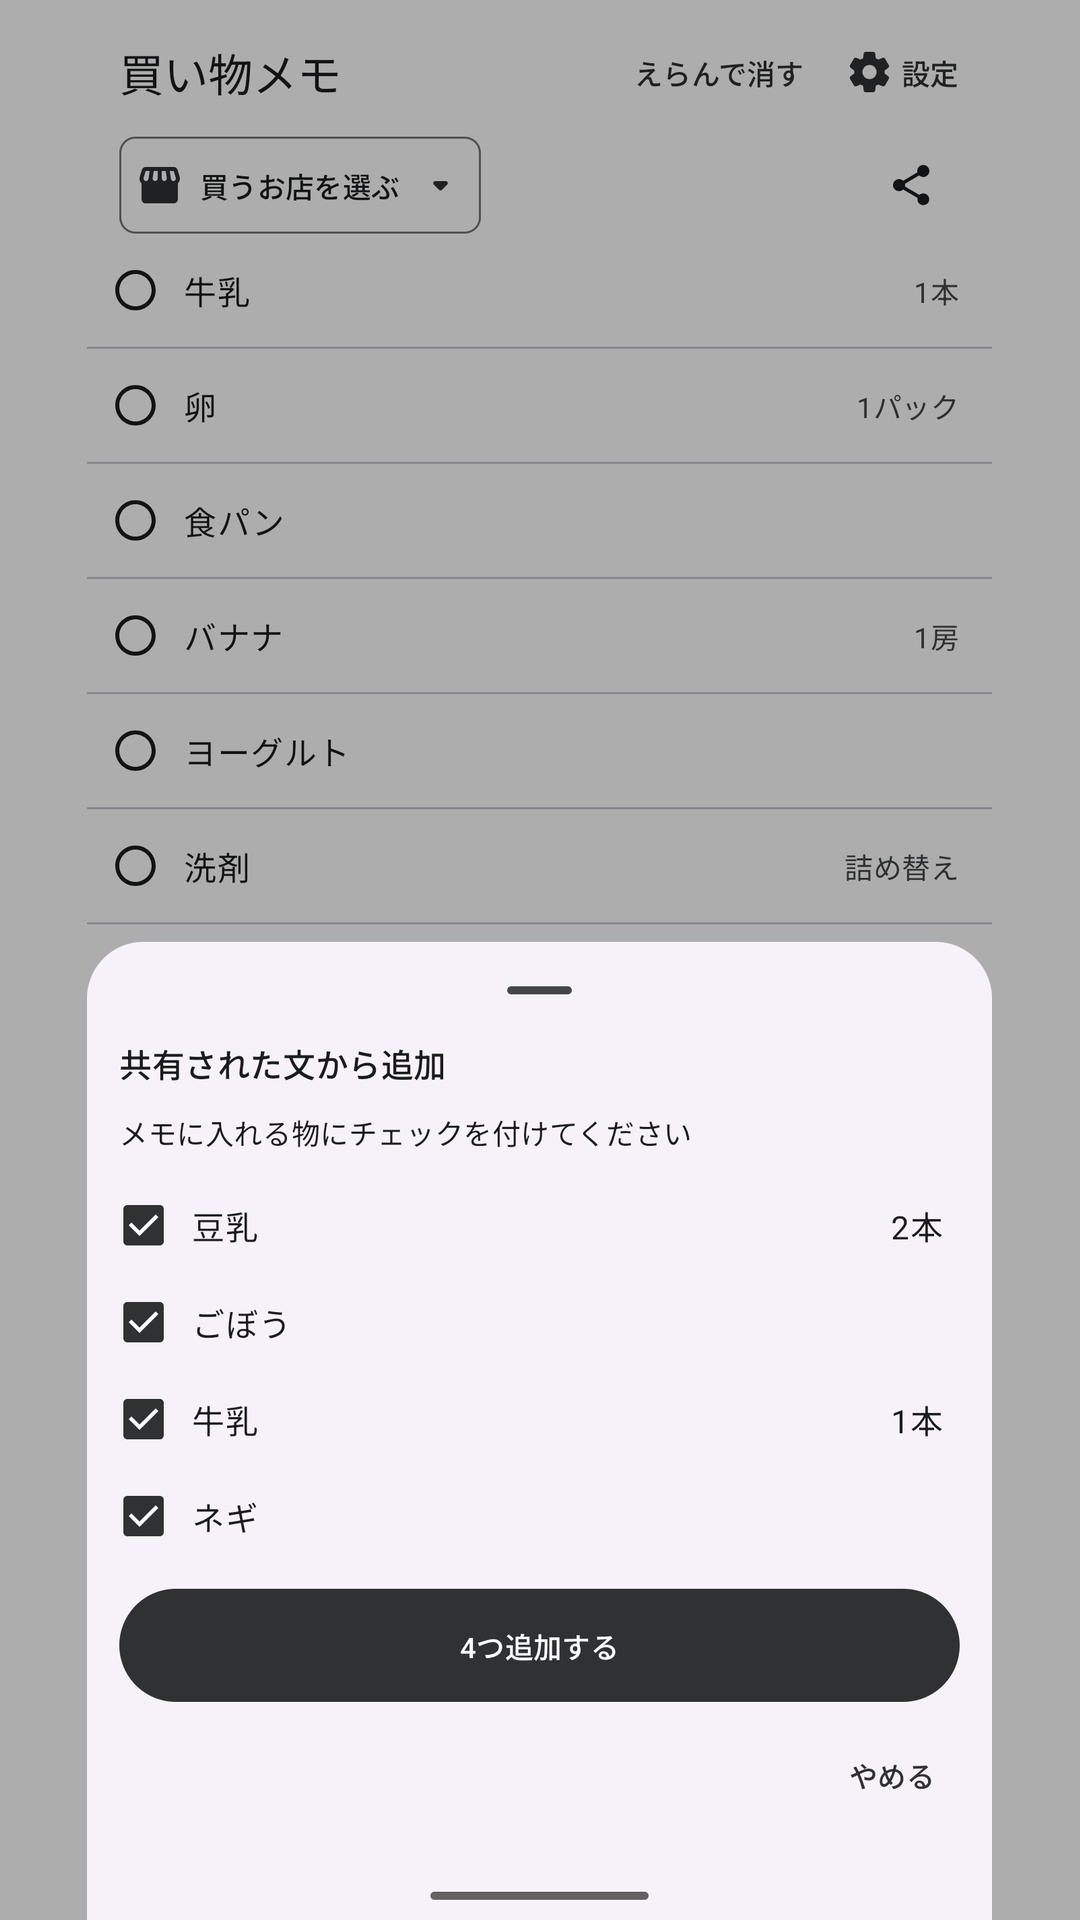
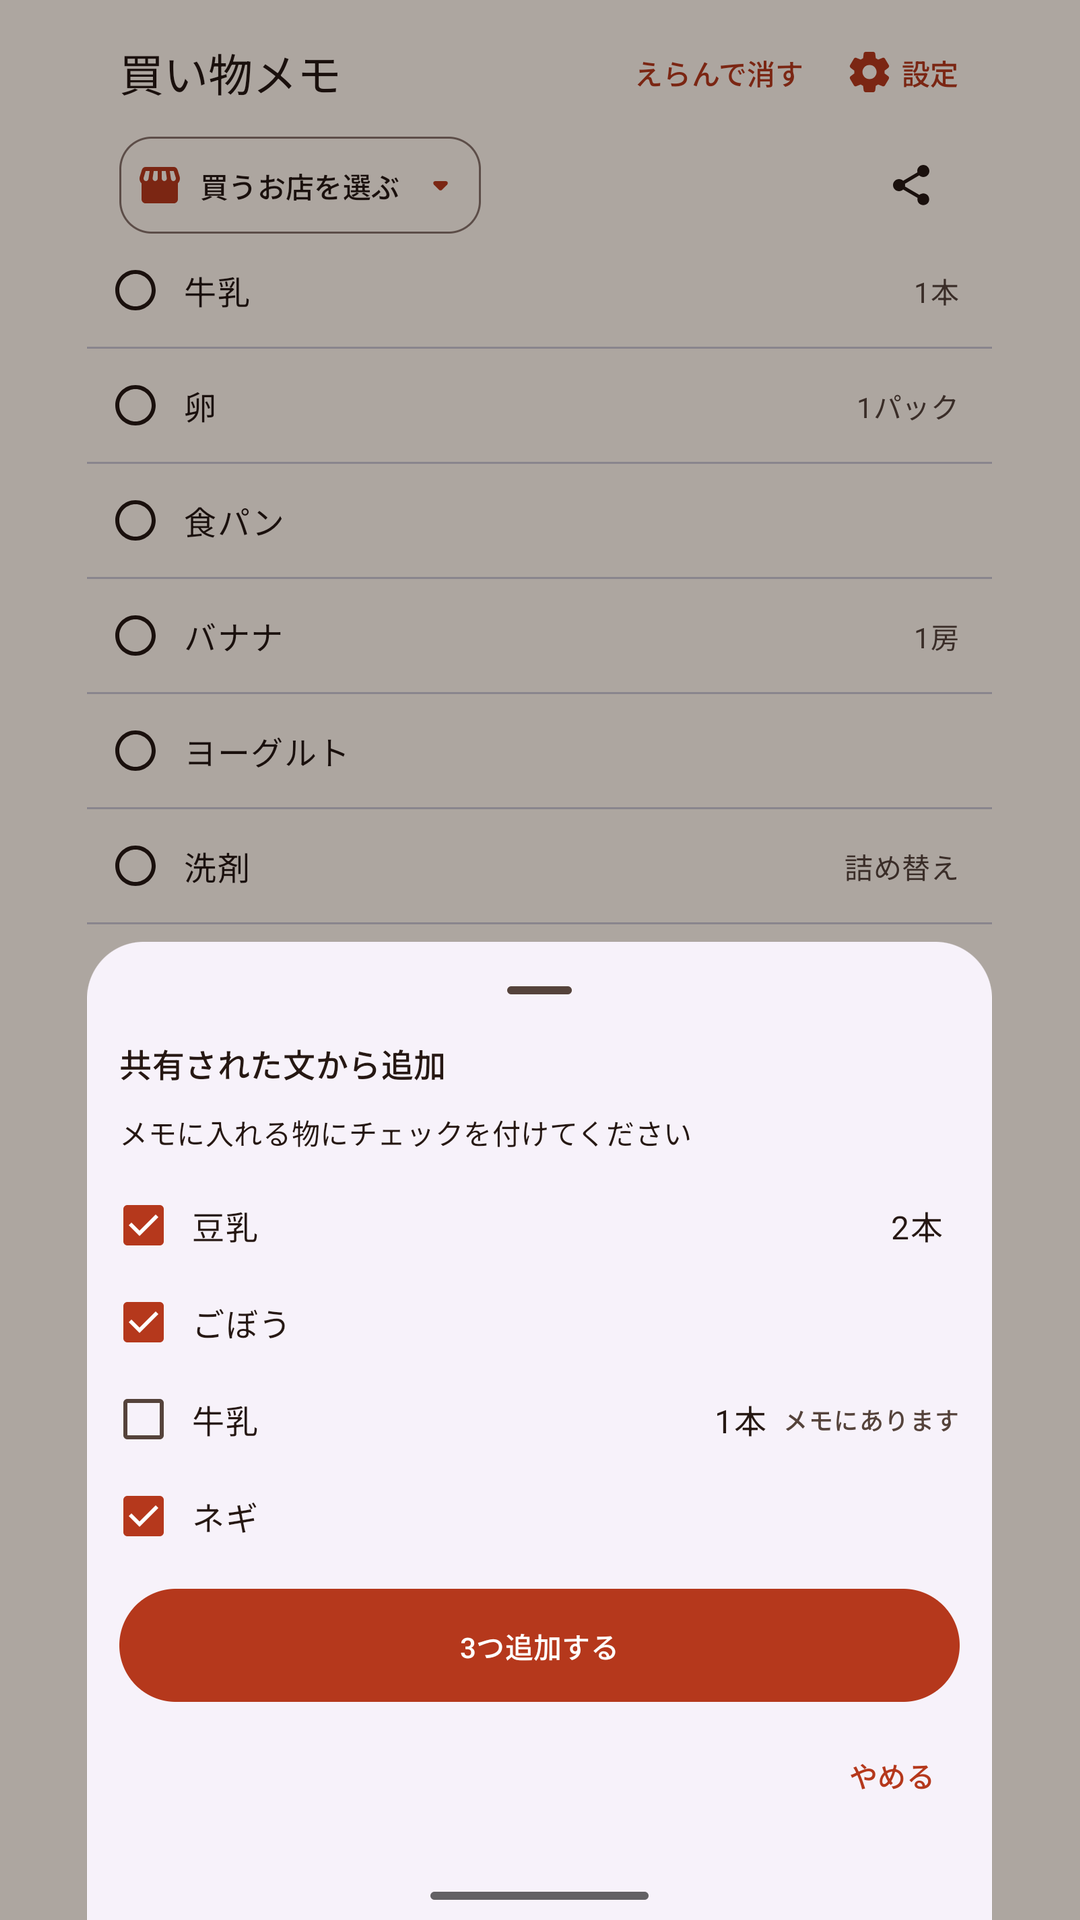
docs: 📸 「メモにあります」の修正を実機で確かめ、取り込みと話して追加の画像を撮り直す (BL-237)
BL-236 の修正を入れた release 版で撮影用データを読み込み直し、取り込みシートと
話して追加の確認カードの両方で、メモにある品名に「メモにあります」が出て
チェックが外れることを確かめた。取り込みの画像と、ストア用 1 枚目
（メモに無い「豆腐とキャベツ」の確認カード）を撮り直し、紹介ページ用の画像も作り直した。

対象: BL-237

Claude-Session: https://claude.ai/code/session_01WnqNbZPCmFFnPDifPYizo3

diff --git a/docs/records/managed/BACKLOG.md b/docs/records/managed/BACKLOG.md
@@ -5,22 +5,6 @@
 
 <!-- COPILOT_RECORDS:BEGIN -->
 ```yaml
-- id: BL-237
-  区分: 人手検証
-  タスク内容: >-
-    BL-236 の修正（読み込みで品目の正規化名を品名から作り直す）を入れた版を実機へ上書きで入れ、撮影用のデータ（正規化名が品名のままのファイル）を
-    「データを読み込む」で入れ直してから、メモにある「牛乳」が共有された文の取り込みシートと話して追加の確認カードで
-    「メモにあります」・チェックなしになることを確かめる。あわせて、ストア用の 1 枚目（docs/store/images/screenshot-1-voice.png）と
-    紹介ページの import の画像を「メモにあります」が出る画面で撮り直すかを決める
-  優先度: P2
-  状態: 未着手
-  担当: ユーザー
-  完了条件: >-
-    実機の取り込みシートと確認カードの両方で、メモにある品名が「メモにあります」・チェックなしで出る。撮り直すかどうかの判断が記録されている
-  依存: []
-  根拠: >-
-    BL-236 は単体テスト（BackupRoundTripTest・ShareImportViewModelTest）で確かめたが、実機の release 版では未確認のため。
-    読み込みは今のデータを置き換えるため、入れ直しはオーナーの操作にした
 - id: BL-221
   区分: 品質ゲート
   タスク内容: >-
